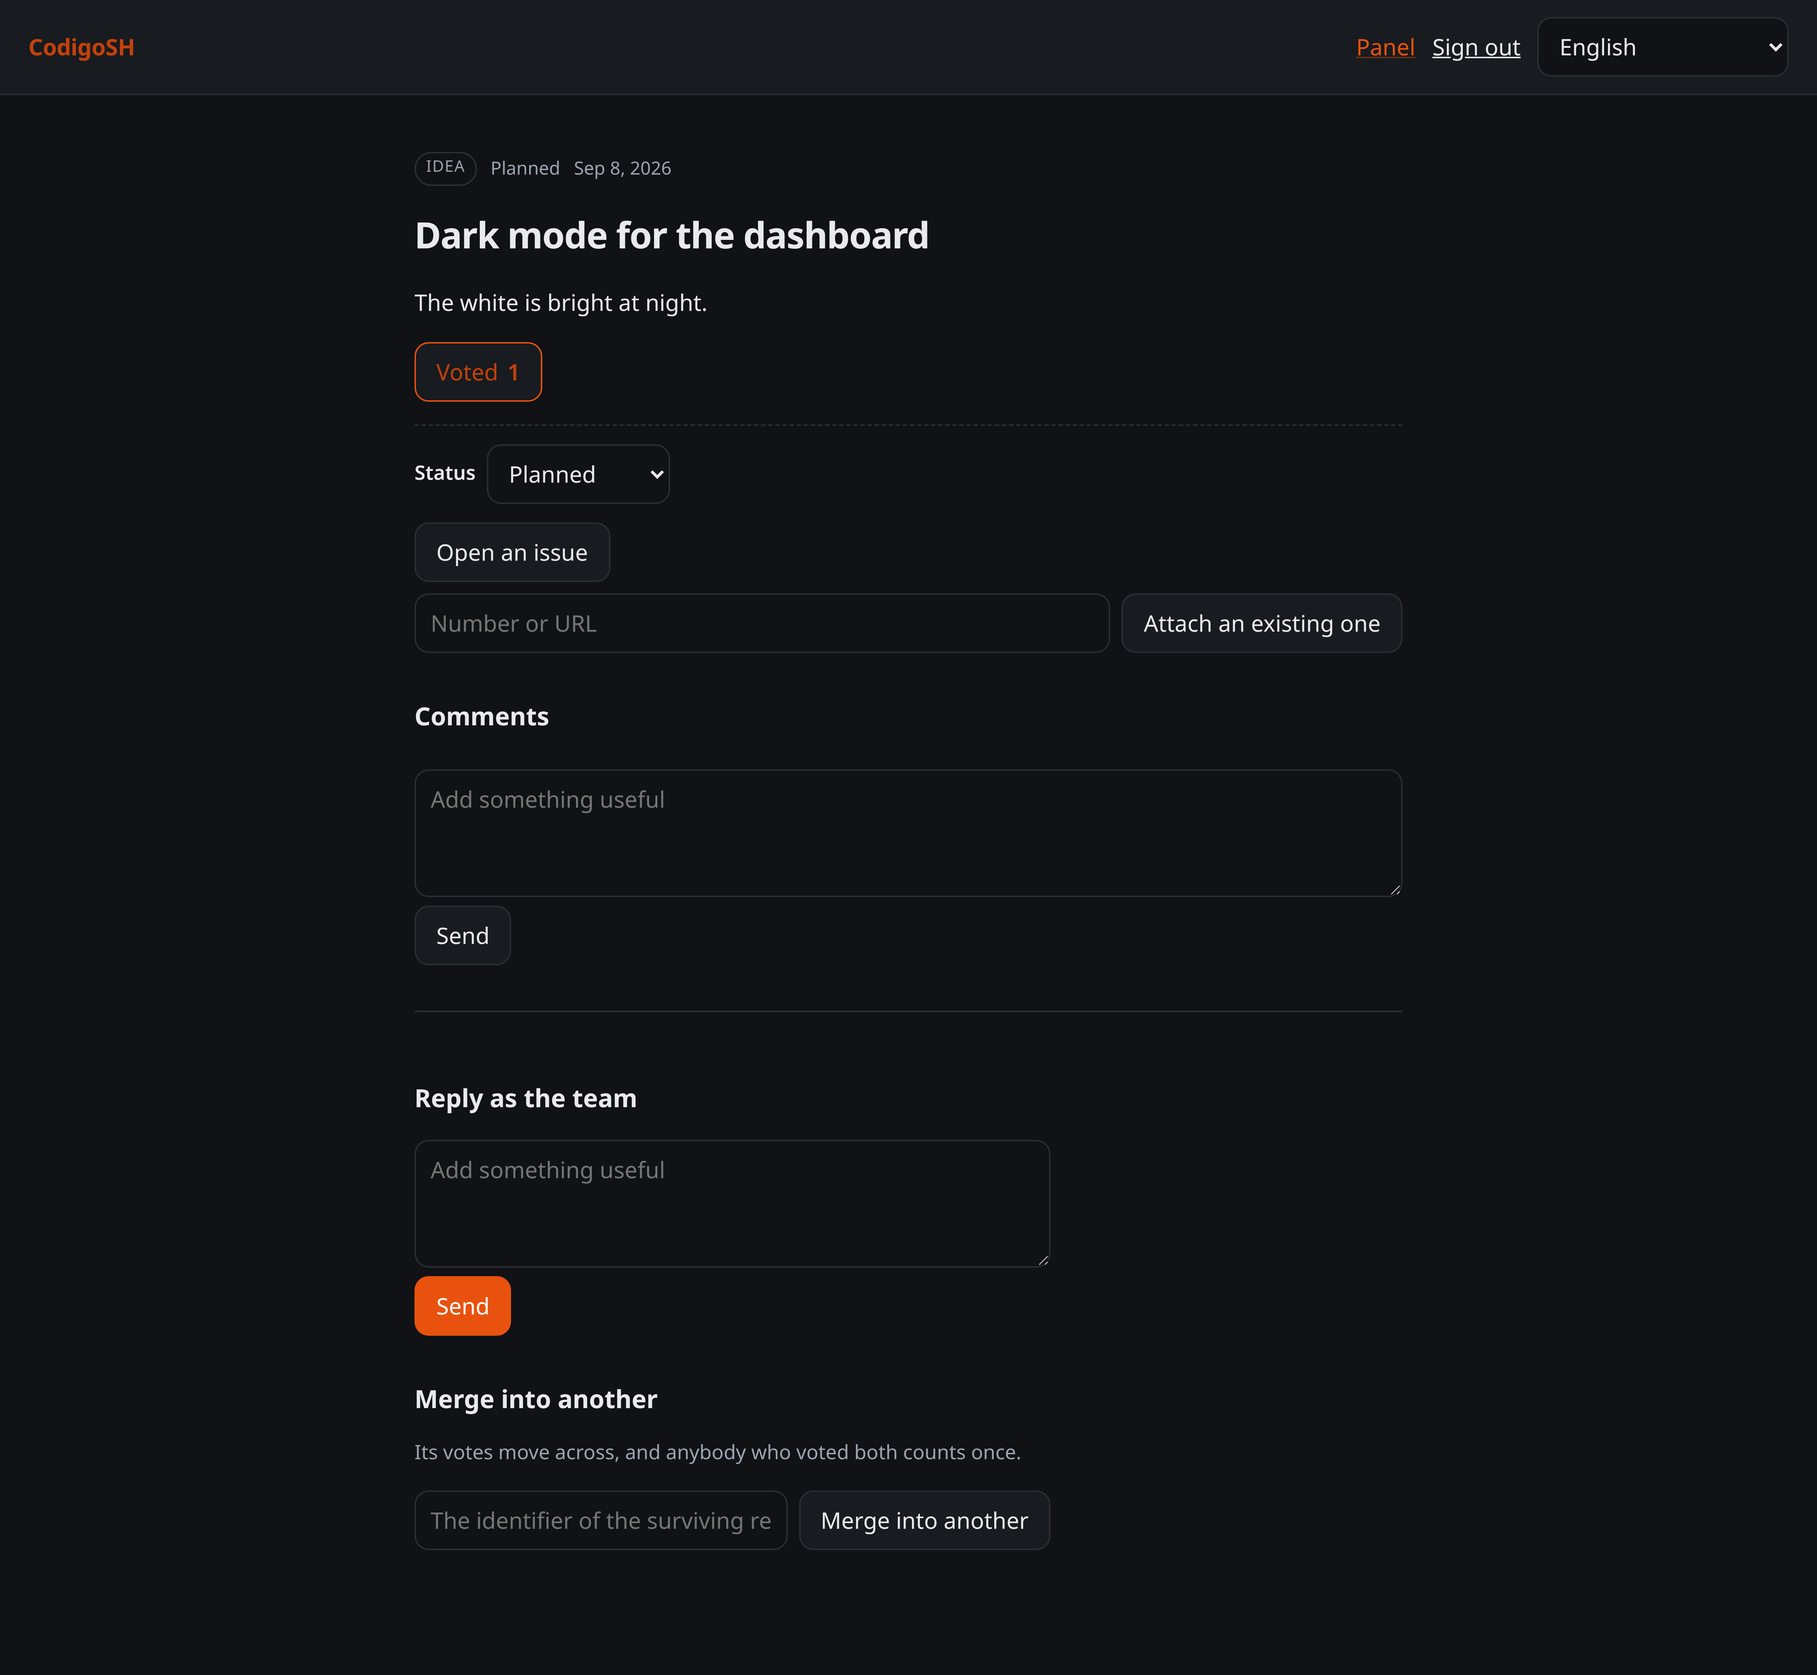
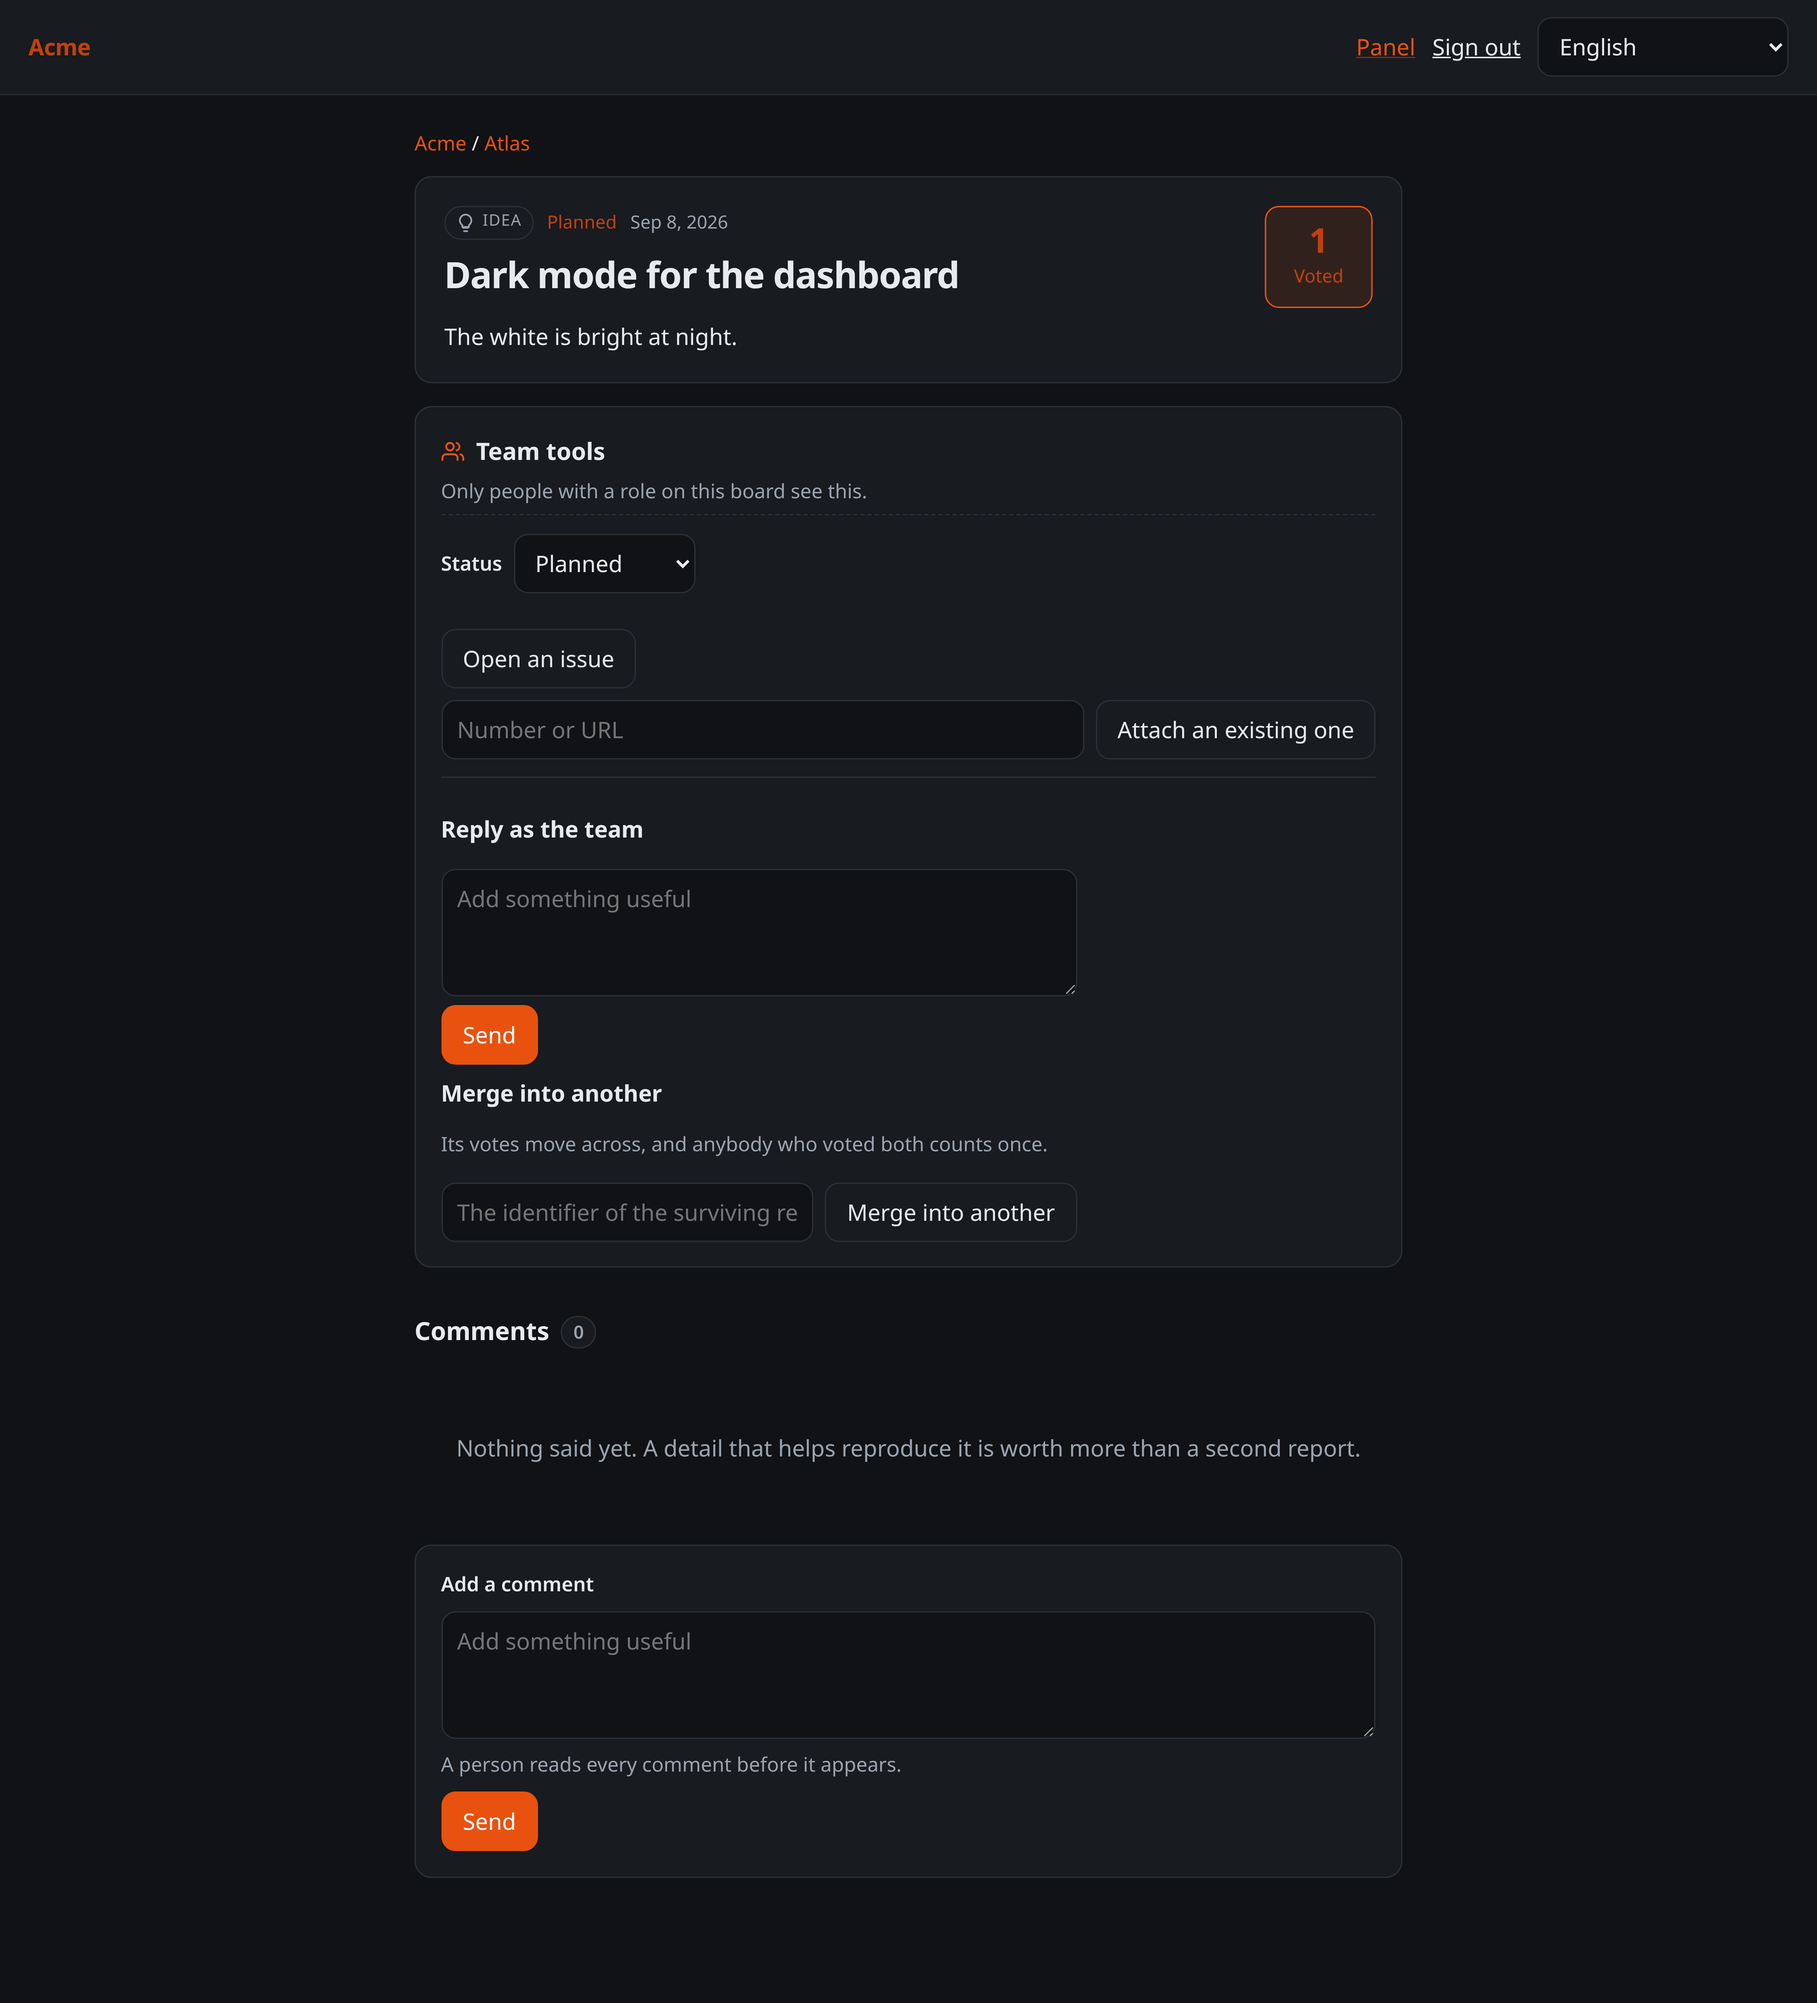
docs: examples stop being somebody's real account
The examples across the interface, the documentation and the generated
screenshots were the operator's own: a username, an organisation, a
repository and a mail address that belong to a real person and a real
installation. An example is a shape to recognise, not an invitation to
read whoever runs this.

They are now Acme, Atlas, alex and team@example.com. The forge examples
stay real projects, because example.com/my-org/my-repo teaches nothing
about what a forge owner looks like — but somebody else's: Forgejo's own
repository on Codeberg rather than this one.

Not touched: the address install.sh is downloaded from and the module
path, which are this project and not examples of anything.

The screenshots are regenerated from a seed that now leaves the bug
waiting instead of an idea, so the picture of the triage queue shows a
report with its version and its steps — which is the decision that screen
exists to make.

diff --git a/scripts/docs-shots.ts b/scripts/docs-shots.ts
@@ -124,31 +124,41 @@ const seeded = await evaluate(`
   // taking. Nothing checked the answer, so setup failed, everything after it
   // ran with no session, and the images were of an unclaimed instance — with a
   // tick printed for each one.
-  const claimed = await post("/api/setup", { username: "k4wit0", password: "a good long passphrase" });
+  const claimed = await post("/api/setup", { username: "alex", password: "a good long passphrase" });
   if (claimed !== 201) throw new Error("could not claim the instance: HTTP " + claimed);
 
-  await post("/api/instance", { name: "CodigoSH", logo: "", accent: "" });
-  await post("/api/organizations", { slug: "codigosh", name: "CodigoSH", forge: "forgejo" });
-  await post("/api/orgs/codigosh/repositories", {
-    slug: "lastboard", name: "Lastboard", accepts_bugs: true, accepts_ideas: true,
+  await post("/api/instance", { name: "Acme", logo: "", accent: "" });
+  await post("/api/organizations", { slug: "acme", name: "Acme", forge: "forgejo" });
+  await post("/api/orgs/acme/repositories", {
+    slug: "atlas", name: "Atlas", accepts_bugs: true, accepts_ideas: true,
   });
 
-  const submit = async (kind, title, body) => {
-    const form = await fetch("/api/orgs/codigosh/repos/lastboard/form").then(r => r.json());
+  const submit = async (kind, title, body, fields = {}) => {
+    const form = await fetch("/api/orgs/acme/repos/atlas/form").then(r => r.json());
     // The form token refuses anything faster than a person types.
     await new Promise(r => setTimeout(r, 2200));
-    const res = await fetch("/api/orgs/codigosh/repos/lastboard/items", {
+    const res = await fetch("/api/orgs/acme/repos/atlas/items", {
       method: "POST",
       headers: { "Content-Type": "application/json", "X-CSRF-Token": csrf() },
-      body: JSON.stringify({ kind, title, body, token: form.token }),
+      body: JSON.stringify({ kind, title, body, fields, token: form.token }),
     });
     return (await res.json()).public_id;
   };
 
   const ids = [];
   ids.push(await submit("idea", "Dark mode for the dashboard", "The white is bright at night."));
-  ids.push(await submit("bug", "Crashes when importing a folder", "It closes with no message."));
   ids.push(await submit("idea", "Export the reports to CSV", "For a monthly report."));
+  // Last, so it is the one left waiting: the picture of the queue is there to
+  // show what a triage decision looks like, and a bug with its version and its
+  // steps is the decision. An idea with one sentence shows nothing.
+  ids.push(
+    await submit("bug", "Crashes when importing a folder", "It closes with no message.", {
+      // The two the form asks a bug, so the pictures of the queue and of a
+      // report show what a usable one looks like rather than a bare sentence.
+      version: "1.4.2",
+      steps: "1. Open a board\\n2. Import a folder of photos\\n3. It closes",
+    }),
+  );
 
   // All but the last, so the queue screenshot has something in it. Publishing
   // everything left that page showing "nothing waiting" — a picture of the
@@ -158,7 +168,7 @@ const seeded = await evaluate(`
     await post("/api/items/" + id + "/moderation", { state: "published" });
   }
   await post("/api/items/" + ids[0] + "/status", { status: "planned" });
-  await post("/api/items/" + ids[1] + "/status", { status: "confirmed" });
+  await post("/api/items/" + ids[1] + "/status", { status: "in_progress" });
   await post("/api/items/" + ids[0] + "/votes", {});
   return ids;
 `);
@@ -167,16 +177,16 @@ if (!Array.isArray(seeded) || seeded.length !== 3) {
   process.exit(1);
 }
 
-await go("/codigosh/lastboard");
+await go("/acme/atlas");
 await shoot("board");
 
-await go("/codigosh/lastboard/new");
+await go("/acme/atlas/new");
 await shoot("report");
 
-await go("/codigosh/lastboard/roadmap");
+await go("/acme/atlas/roadmap");
 await shoot("roadmap");
 
-await go("/codigosh/lastboard/queue");
+await go("/acme/atlas/queue");
 await shoot("queue");
 
 await go(`/i/${seeded[0]}`);

diff --git a/web/src/views/templates.ts b/web/src/views/templates.ts
@@ -308,11 +308,11 @@ export function connectionForms(
               options: kinds.map(([v, l]) => [v ?? "", l ?? ""] as [string, string]),
             })}
             <div class="channel-fields" hidden>
-              ${field({ id: "chan-url", name: "url", label: text.t("panel.address2"), example: "https://ntfy.sh/lasthelp" }, text)}
+              ${field({ id: "chan-url", name: "url", label: text.t("panel.address2"), example: "https://ntfy.sh/acme-feedback" }, text)}
               ${field({ id: "chan-token", name: "token", label: text.t("panel.token"), type: "password" }, text)}
             </div>
             <div class="channel-mail" hidden>
-              ${field({ id: "chan-to", name: "to", label: text.t("panel.mailTo"), type: "email", example: "equipo@codigosh.com" }, text)}
+              ${field({ id: "chan-to", name: "to", label: text.t("panel.mailTo"), type: "email", example: "team@example.com" }, text)}
             </div>
             <p class="form-error" role="alert" hidden></p>
             <div class="wizard-actions"><span class="spacer"></span>
@@ -992,7 +992,7 @@ function accountFields(text: Text, picture = ""): string {
       required: true,
       autocomplete: "username",
       hint: text.t("auth.usernameHelp"),
-      example: "k4wit0",
+      example: "alex",
     }, text) +
     field({
       id: "password",
@@ -1062,7 +1062,7 @@ export function organizationFields(text: Text, forge: string): string {
       name: "name",
       label: text.t("panel.name"),
       hint: text.t("panel.nameHelp"),
-      example: "CodigoSH",
+      example: "Acme",
       required: true,
     }, text) +
     field({
@@ -1070,7 +1070,7 @@ export function organizationFields(text: Text, forge: string): string {
       name: "slug",
       label: text.t("panel.address"),
       hint: text.t("panel.addressHelp"),
-      example: "codigosh",
+      example: "acme",
       required: true,
       pattern: "[a-z0-9]+(-[a-z0-9]+)*",
     }, text) +
@@ -1225,7 +1225,7 @@ export function setupWizard(
             name: "name",
             label: text.t("setup.instanceName"),
             hint: text.t("setup.instanceNameHelp"),
-            example: "CodigoSH",
+            example: "Acme",
           },
           text,
         ) +
@@ -1650,7 +1650,7 @@ export function profileScreen(
         <div class="card-head">${icons.person()}<h3>${escapeHTML(text.t("profile.name"))}</h3></div>
         <span class="card-sub">${escapeHTML(text.t("profile.nameHelp"))}</span>
         <form class="profile-name">
-          ${field({ id: "display-name", name: "display_name", label: text.t("profile.name"), value: me.name ?? "", example: "k4wit0" }, text)}
+          ${field({ id: "display-name", name: "display_name", label: text.t("profile.name"), value: me.name ?? "", example: "Alex" }, text)}
           <p class="form-error" role="alert" hidden></p>
           <div class="wizard-actions"><span class="spacer"></span>
             <button class="button primary" type="submit">${escapeHTML(text.t("action.save"))}</button></div>
@@ -1725,7 +1725,7 @@ export function personalizationScreen(
 
     <form class="instance-settings">
       <div class="wizard-card">
-        ${field({ id: "instance-name", name: "name", label: text.t("setup.instanceName"), hint: text.t("setup.instanceNameHelp"), value: instance.name, example: "CodigoSH" }, text)}
+        ${field({ id: "instance-name", name: "name", label: text.t("setup.instanceName"), hint: text.t("setup.instanceNameHelp"), value: instance.name, example: "Acme" }, text)}
 
         <div class="field">
           <label>${escapeHTML(text.t("personalization.logo"))}</label>

diff --git a/scripts/drive-check.ts b/scripts/drive-check.ts
@@ -149,7 +149,7 @@ async function main() {
   // nobody can sign into: there is no reset here.
   const mismatch = await evaluate(`
     const f = document.querySelector("form.setup-account");
-    f.querySelector('[name=username]').value = "k4wit0";
+    f.querySelector('[name=username]').value = "alex";
     f.querySelector('[name=password]').value = "una contraseña larga de verdad";
     f.querySelector('[name=password_again]').value = "otra cosa completamente";
     f.dispatchEvent(new Event("submit", { cancelable: true, bubbles: true }));
@@ -715,7 +715,7 @@ async function main() {
     // Back to the administrator: the previous block left an owner signed in,
     // and creating an account is not an owner's to do.
     await fetch("/api/session", { method: "DELETE", headers: { "X-CSRF-Token": csrf() } });
-    await post("/api/session", { username: "k4wit0", password: "una contraseña larga de verdad" });
+    await post("/api/session", { username: "alex", password: "una contraseña larga de verdad" });
 
     await post("/api/people", { username: "ana", display_name: "Ana", password: "una contraseña larga de verdad" });
     const people = await fetch("/api/people").then(r => r.json());

diff --git a/web/src/views/wizard.ts b/web/src/views/wizard.ts
@@ -19,9 +19,10 @@ import type { Text } from "./templates";
  * machine values: translating them would invent accounts that do not exist, and
  * the point of an example is that the reader can recognise the shape.
  *
- * They are also real. `git.codigosh.com/CodigoSH/LastHelp` is this project;
- * showing `example.com/my-org/my-repo` teaches nothing about what a forge owner
- * actually looks like.
+ * They are also real projects rather than `example.com/my-org/my-repo`, which
+ * teaches nothing about what a forge owner actually looks like. Real, and
+ * somebody else's: an example is a shape to recognise, not an invitation to
+ * read whoever runs this installation.
  */
 export interface ForgeExample {
   url: string;
@@ -56,9 +57,9 @@ export const forgeExamples: Record<string, ForgeExample> = {
     where: "Settings → Applications → Access tokens",
   },
   forgejo: {
-    url: "https://git.codigosh.com",
-    owner: "CodigoSH",
-    repo: "LastHelp",
+    url: "https://codeberg.org",
+    owner: "forgejo",
+    repo: "forgejo",
     scope: "write:issue",
     where: "Settings → Applications → Access tokens",
   },

diff --git a/internal/core/item/item_test.go b/internal/core/item/item_test.go
@@ -332,7 +332,7 @@ func TestTheThreadWaitsForAHumanExceptForTheTeam(t *testing.T) {
 	s := store(t)
 	it, _ := report(t, s, Idea, "dark mode", "")
 
-	fromTeam, err := s.Comment(it.ID, AuthorTeam, "k4wit0", "looking at it", epoch)
+	fromTeam, err := s.Comment(it.ID, AuthorTeam, "alex", "looking at it", epoch)
 	if err != nil {
 		t.Fatal(err)
 	}

diff --git a/docs/getting-started/first-repository.md b/docs/getting-started/first-repository.md
@@ -36,19 +36,19 @@ curl -X POST "$BASE/api/organizations" \
   -H 'Content-Type: application/json' \
   -H "X-CSRF-Token: $CSRF" -H 'Sec-Fetch-Site: same-origin' \
   -b cookies.txt -c cookies.txt \
-  -d '{"slug":"codigosh","name":"CodigoSH","forge":"forgejo",
-       "base_url":"https://git.example.com","forge_owner":"CodigoSH"}'
+  -d '{"slug":"acme","name":"Acme","forge":"forgejo",
+       "base_url":"https://git.example.com","forge_owner":"acme"}'
 
-curl -X POST "$BASE/api/orgs/codigosh/repositories" \
+curl -X POST "$BASE/api/orgs/acme/repositories" \
   -H 'Content-Type: application/json' \
   -H "X-CSRF-Token: $CSRF" -H 'Sec-Fetch-Site: same-origin' \
   -b cookies.txt -c cookies.txt \
-  -d '{"slug":"lastboard","name":"Lastboard","accepts_bugs":true,"accepts_ideas":true}'
+  -d '{"slug":"atlas","name":"Atlas","accepts_bugs":true,"accepts_ideas":true}'
 ```
 
-The repository is then at `/codigosh/lastboard`, its roadmap at
-`/codigosh/lastboard/roadmap`, and its feed at
-`/feed/codigosh/lastboard/atom.xml`.
+The repository is then at `/acme/atlas`, its roadmap at
+`/acme/atlas/roadmap`, and its feed at
+`/feed/acme/atlas/atom.xml`.
 
 `forge` may be `github`, `gitlab`, `gitea`, `forgejo` or `none`. **`none` is a
 supported way to run**, not a placeholder: everything except turning an item into

diff --git a/docs/administration/notifications.md b/docs/administration/notifications.md
@@ -18,7 +18,7 @@ channel, and it asks only for what that channel needs.
 Or over the API, which is what the panel calls:
 
 ```sh
-curl -X POST "$BASE/api/orgs/codigosh/repos/lastboard/channel" \
+curl -X POST "$BASE/api/orgs/acme/repos/atlas/channel" \
   -H 'Content-Type: application/json' \
   -H "X-CSRF-Token: $CSRF" -H 'Sec-Fetch-Site: same-origin' -b cookies.txt \
   -d '{"kind":"ntfy","url":"https://ntfy.sh/your-private-topic"}'
@@ -45,7 +45,7 @@ is the one place the moderation queue exists to keep it out of.
 account, and stores nothing about whoever subscribes:
 
 ```
-https://help.example.com/feed/codigosh/lastboard/atom.xml
+https://help.example.com/feed/acme/atlas/atom.xml
 ```
 
 It carries published items only, through the same listing the public page uses,

diff --git a/docs/forges/connecting.md b/docs/forges/connecting.md
@@ -47,7 +47,7 @@ to read it through the panel.
 Over the API, which is what the panel calls:
 
 ```sh
-curl -X POST "$BASE/api/orgs/codigosh/credentials" \
+curl -X POST "$BASE/api/orgs/acme/credentials" \
   -H 'Content-Type: application/json' \
   -H "X-CSRF-Token: $CSRF" -H 'Sec-Fetch-Site: same-origin' \
   -b cookies.txt \
